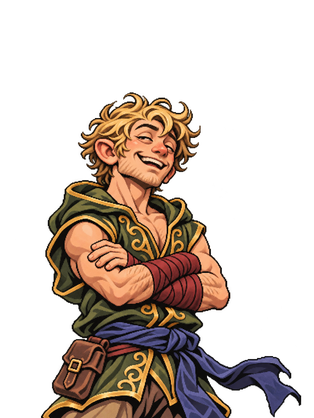
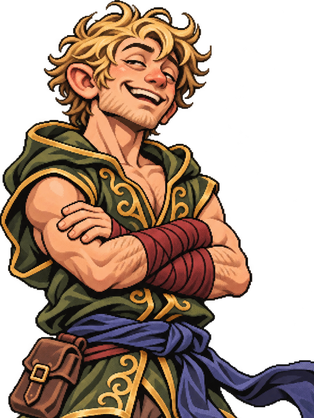
v0.2.18.2: zoom in the five newest portraits
Claude-Session: https://claude.ai/code/session_016k8booiStFzZsVbT3J88dj

diff --git a/index.html b/index.html
@@ -3728,7 +3728,7 @@ $('oSelect').onclick=()=>{if(mode==='online'){if(NET.host)hostNextMatch(false);e
    side's input is predicted (= their last known input) and, when the real one arrives and differs,
    the game rewinds to that frame and replays it. The simulation is deterministic, so both sides
    end up identical. */
-const VERSION='0.2.18.1'; // shown on the title screen; online players must match
+const VERSION='0.2.18.2'; // shown on the title screen; online players must match
 const BUILD='pb-'+VERSION+'-'+CH.length+'-'+STAGES.length;
 $('verTag').textContent='v'+VERSION;
 /* ---- nickname: asked once per device before the main menu, shown to the other players online (display only, never in the sim) ---- */
